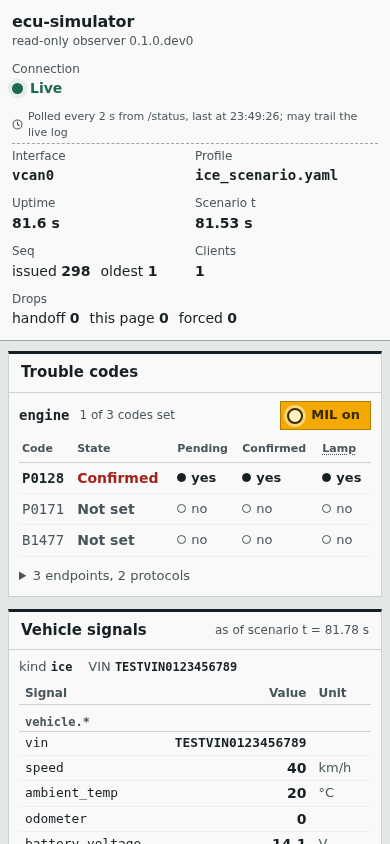
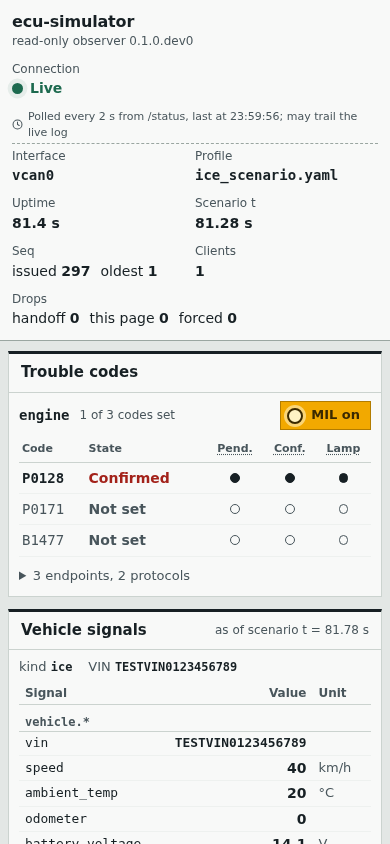
docs(validation): final M3a live demo recapture at 0355164
Every screenshot is from one namespace run on the page with the trouble-codes fix:
the Lamp column is fully visible at 1440 in c2, e and h2, and at 390 and 2000 px.
The record lists the clipping as found at 8d953d3 and fixed in 0355164, and gives
the suite result at 0355164.

diff --git a/docs/validation/gui-m3a-live-demo.md b/docs/validation/gui-m3a-live-demo.md
@@ -8,8 +8,8 @@ single run at a human request rate, and are not evidence about latency.
 
 **The V1.0 and Phase 8b gates are untouched.** No simulator, protocol, profile, API
 endpoint or server code changed in this task. The page fixes are in the static files under
-`src/ecu_simulator/api/static/` (`app.css`, `app.js`, `index.html`): `4b92c9a` (see
-"Findings") and Task 20's `8d953d3`. The supported-PID summaries come from Task 19's
+`src/ecu_simulator/api/static/` (`app.css`, `app.js`, `index.html`): `4b92c9a` and
+`0355164` (see "Findings"), and Task 20's `8d953d3`. The supported-PID summaries come from Task 19's
 `5e9361b` and `cfd8c24` in `observe/`. These screenshots were retaken against all of
 them. Apart from those, the changes are the demo scripts and this record.
 
@@ -17,8 +17,8 @@ them. Apart from those, the changes are the demo scripts and this record.
 
 | Item | Value |
 |---|---|
-| Branch, commit | `gui` at `8d953d38eeff4bc2f61e1a175a74e9d065a386ed` (Task 20: desktop widths, polled label). The capture script's update was committed on top; it adds capture steps and the namespace guard only |
-| Date | 2026-09-28, 23:48:04 UTC (capture start) |
+| Branch, commit | `gui` at `0355164eb6d19a90b2aa1f78bfd463abcb398bb2` (the trouble-codes table fits the sidebar at every width). The capture script is unchanged from `efc1969` |
+| Date | 2026-09-28, 23:58:35 UTC (capture start). The run crossed midnight UTC, so later shots read 00:00 times |
 | Kernel | Linux 6.8.0-138-generic |
 | CPU governor | `powersave` on all 12 CPUs (not pinned; this is not a timing run) |
 | Python | 3.12.12 (worktree `.venv`) |
@@ -28,15 +28,14 @@ them. Apart from those, the changes are the demo scripts and this record.
 The one command:
 
 ```
-scripts/run_gui_demo.sh <scratchpad>/run6
+scripts/run_gui_demo.sh <scratchpad>/run7
 ```
 
 The screenshots in [gui-m3a-live-demo/](gui-m3a-live-demo/) are all from that one run,
 copied unchanged, with its `capture.log` (the step log) and `traffic.log` (every request
-and answer the generator saw). The same command had been run five times before, to develop
+and answer the generator saw). The same command had been run six times before, to develop
 the capture script and against earlier pages. Those runs are not the record, and none of
-their screenshots is kept. Run 5, at the same commit, lacked the dedicated supported-PID
-shot (b3), so the whole set was retaken.
+their screenshots is kept.
 
 Inside the namespace, `scripts/gui_demo_capture.py`:
 
@@ -92,26 +91,29 @@ All shots are at 1440×900 unless the name says otherwise. From the first live s
 the status bar shows the polled label: "Polled every 2 s from /status, last at HH:MM:SS;
 may trail the live log".
 
+In the trouble-codes table the flag columns are now marks under short headers ("Pend.",
+"Conf.", "Lamp"): a filled dot is set, a ring is not.
+
 | File | What it shows |
 |---|---|
 | [a-loading.png](gui-m3a-live-demo/a-loading.png) | **Loading.** "Connecting"; "Loading trouble codes", "Loading vehicle signals", "Loading the exchange history". The first `/api/v1/` request was held in DevTools to capture this; otherwise it lasts well under a second |
-| [h1-empty-fresh-start.png](gui-m3a-live-demo/h1-empty-fresh-start.png) | **Empty: a fresh start before any traffic.** Live, t = 1.11 s, seq issued 0, the polled label. "No exchanges yet. The simulator has not handled a diagnostic request since it started." The scenario is already moving `coolant_temp` and `engine_load` |
+| [h1-empty-fresh-start.png](gui-m3a-live-demo/h1-empty-fresh-start.png) | **Empty: a fresh start before any traffic.** Live, t = 1.10 s, seq issued 0, the polled label. "No exchanges yet. The simulator has not handled a diagnostic request since it started." The scenario is already moving `coolant_temp` and `engine_load` |
 | [b1-live.png](gui-m3a-live-demo/b1-live.png) | **Live, t ≈ 23 s.** 80 exchanges: speed 30, rpm 1600, coolant 48.98 °C, load 33.35 %, throttle 41 %. It includes row 73, "OBD 01 00 — supported PIDs 01–20", and the 0x22 NRC |
-| [b2-live-7s-later.png](gui-m3a-live-demo/b2-live-7s-later.png) | **Live, t ≈ 29–31 s, about 7 s later.** 106 exchanges: speed 55, rpm 1900, coolant 57.4 °C, load 60 %. The log follows to the newest row, 106 |
-| [b3-live-supported-pid-ranges.png](gui-m3a-live-demo/b3-live-supported-pid-ranges.png) | **The new supported-PID summaries (Task 19).** Row 107 is "OBD 01 20 — supported PIDs 21–40" (`41 20 00 02 00 01`); row 109 is "OBD 01 00 — supported PIDs 01–20" (`41 00 1e 3f 80 13`). The polled label reads "Polled every 2 s from /status, last at 23:48:36; may trail the live log". The status Seq "issued 107" trails the log's "last seq 112", as that label says it may |
+| [b2-live-7s-later.png](gui-m3a-live-demo/b2-live-7s-later.png) | **Live, t ≈ 29–31 s, about 7 s later.** 106 exchanges: speed 55, rpm 1900, coolant 56.88 °C, load 59.82 %. The log follows to the newest row, 106 |
+| [b3-live-supported-pid-ranges.png](gui-m3a-live-demo/b3-live-supported-pid-ranges.png) | **The supported-PID summaries (Task 19).** Row 107 is "OBD 01 20 — supported PIDs 21–40" (`41 20 00 02 00 01`); row 109 is "OBD 01 00 — supported PIDs 01–20" (`41 00 1e 3f 80 13`). The polled label reads "Polled every 2 s from /status, last at 23:59:06; may trail the live log". The status Seq "issued 107" trails the log's "last seq 112", as that label says it may |
 | [d1-filter-service-0x19.png](gui-m3a-live-demo/d1-filter-service-0x19.png) | **The service filter 0x19.** "12 of 116 shown". UDS 19 rows from 7E0 and 7E1, with "N exchanges hidden by filters (not a gap)" between them |
 | [d2-paused-held-rows.png](gui-m3a-live-demo/d2-paused-held-rows.png) | **Paused, after the filter was reset.** "View paused. 20 new exchanges are held"; the header reads "116 exchanges, last seq 136"; the button reads "Resume view" |
-| [d3-resumed-log-following.png](gui-m3a-live-demo/d3-resumed-log-following.png) | **3 s after Resume: the log follows.** "147 exchanges, last seq 147", and row 147 is the last visible row, with no scrolling |
+| [d3-resumed-log-following.png](gui-m3a-live-demo/d3-resumed-log-following.png) | **3 s after Resume: the log follows.** "147 exchanges, last seq 147", and row 147 is the last visible row, with no scrolling. P0128 has just turned "Pending" |
 | [d4-scrolled-up-new-rows-below.png](gui-m3a-live-demo/d4-scrolled-up-new-rows-below.png) | **After a real wheel scroll up (deltaY −700).** The log stays at rows 126–135 while exchanges arrive (159). The control reads "11 new rows below, jump to newest" |
 | [d5-jumped-to-newest.png](gui-m3a-live-demo/d5-jumped-to-newest.png) | **After a real click on that control.** The control is gone, and the log shows the newest row, 166 |
-| [c1-dtc-pending.png](gui-m3a-live-demo/c1-dtc-pending.png) | **DTC pending, t ≈ 46 s.** P0128 "Pending", "1 of 3 codes set", MIL off. UDS 19 02 FF on 7E1 answers `59 02 8c 01 28 01` (P0128 in the record). The log follows, at row 167 |
-| [c2-dtc-confirmed-mil.png](gui-m3a-live-demo/c2-dtc-confirmed-mil.png) | **DTC confirmed with the MIL, t ≈ 80 s.** P0128 "Confirmed", pending and confirmed yes; "MIL on"; speed 40, rpm 1400, coolant 92 °C. **The Lamp column is clipped at the panel's right edge** (see Findings) |
-| [g1-narrow-390.png](gui-m3a-live-demo/g1-narrow-390.png) | **390 px, viewport.** The status grid with the polled label wrapped under Connection; the trouble codes with MIL on, all columns visible, including Lamp "yes" |
+| [c1-dtc-pending.png](gui-m3a-live-demo/c1-dtc-pending.png) | **DTC pending, t ≈ 45 s.** P0128 "Pending": a filled Pend. mark, rings under Conf. and Lamp; "1 of 3 codes set"; MIL off. UDS 19 02 FF on 7E1 answers `59 02 8c 01 28 01` (P0128 in the record). The log follows, at row 166 |
+| [c2-dtc-confirmed-mil.png](gui-m3a-live-demo/c2-dtc-confirmed-mil.png) | **DTC confirmed with the MIL, t ≈ 79 s.** P0128 "Confirmed", with filled marks under Pend., Conf. and **Lamp, all fully visible inside the panel**; "MIL on"; speed 80, rpm 2100, coolant 92 °C |
+| [g1-narrow-390.png](gui-m3a-live-demo/g1-narrow-390.png) | **390 px, viewport.** The status grid with the polled label wrapped under Connection; the trouble codes with MIL on and every column visible |
 | [g2-narrow-390-full-page.png](gui-m3a-live-demo/g2-narrow-390-full-page.png) | **390 px, full page.** Panels stacked; every vehicle signal; log rows as blocks, 295–300, ending at the newest |
-| [w-desktop-2000x1100.png](gui-m3a-live-demo/w-desktop-2000x1100.png) | **2000×1100, the owner's width.** A wider side column, with the DTC table unclipped (Lamp "yes" for P0128); the log's summaries fit on one line, including row 305, "OBD 01 20 — supported PIDs 21–40"; the polled label |
-| [e-disconnected-stale.png](gui-m3a-live-demo/e-disconnected-stale.png) | **Disconnected, about 4 s after SIGTERM.** "Disconnected, retry in 4 s"; the polled label keeps its last time (23:49:28). The banner reads "Last live 23:49:29 UTC (4 s ago) … the simulator is shutting down (1001) …", with "Retry now". Each panel shows "Stale, as of 23:49:29 UTC", and the status readouts are struck through. All three DTC rows are visible; the Lamp column is clipped at the right edge, as in c2. The log keeps 311 exchanges, including 01 20 and 01 00 (rows 305 and 307) |
-| [f-reconnected-after-restart.png](gui-m3a-live-demo/f-reconnected-after-restart.png) | **Reconnected after a restart.** Live at t = 4.63 s, MIL off, P0128 not set. A real wheel scroll up of about 856 px shows the marker: "Simulator restarted. A new run started at 23:49:34 UTC. Rows above are from the previous run; seq starts again at 1." Old rows 308–311 are above it and new rows 1–5 below. The control reads "2 new rows below, jump to newest", counting the rows that arrived after the scroll |
-| [h2-no-scenario.png](gui-m3a-live-demo/h2-no-scenario.png) | **No scenario.** `ice_default.yaml`, on a fresh page load with no traffic. Scenario t reads "no scenario"; the vehicle signals read "no scenario: values as configured"; "No exchanges yet". The profile's confirmed B1477 and P0001 are shown with MIL off. The Lamp column is clipped, as in c2 |
+| [w-desktop-2000x1100.png](gui-m3a-live-demo/w-desktop-2000x1100.png) | **2000×1100, the owner's width.** A wider side column with the whole DTC table; the log's summaries fit on one line, including row 305, "OBD 01 20 — supported PIDs 21–40"; the polled label |
+| [e-disconnected-stale.png](gui-m3a-live-demo/e-disconnected-stale.png) | **Disconnected, about 4 s after SIGTERM.** "Disconnected, retry in 4 s"; the polled label keeps its last time (23:59:58). The banner reads "Last live 00:00:00 UTC (4 s ago) … the simulator is shutting down (1001) …", with "Retry now". Each panel shows "Stale, as of 00:00:00 UTC", and the status readouts are struck through. **All three DTC rows and the Lamp column are fully visible.** The log keeps 311 exchanges, including 01 20 and 01 00 (rows 305 and 307) |
+| [f-reconnected-after-restart.png](gui-m3a-live-demo/f-reconnected-after-restart.png) | **Reconnected after a restart.** Live at t = 4.64 s, MIL off, P0128 not set. A real wheel scroll up of about 962 px shows the marker: "Simulator restarted. A new run started at 00:00:04 UTC. Rows above are from the previous run; seq starts again at 1." Old rows 308–311 are above it and new rows 1–5 below. The control reads "2 new rows below, jump to newest", counting the rows that arrived after the scroll |
+| [h2-no-scenario.png](gui-m3a-live-demo/h2-no-scenario.png) | **No scenario.** `ice_default.yaml`, on a fresh page load with no traffic. Scenario t reads "no scenario"; the vehicle signals read "no scenario: values as configured"; "No exchanges yet". The profile's confirmed B1477 and P0001 are shown with filled Pend. and Conf. marks, a ring under Lamp (fully visible), and MIL off |
 
 On the final page load, `performance.getEntriesByType('resource')` listed no resource from
 any origin other than `http://127.0.0.1:8765`. The whole run produced **no page exception
@@ -138,20 +140,23 @@ The API's `summary` strings for OBD 01 00 and 01 20 read "unknown parameter" in 
 captures. Task 19 (`5e9361b`, `cfd8c24`) changed them to "supported PIDs 01–20" and
 "supported PIDs 21–40" (b3).
 
-**Open, found in this recapture at `8d953d3`:** at 1440×900 the trouble-codes table is
-wider than its panel whenever a code reads "Confirmed". The Lamp header and its yes/no
-column are cut off at the panel's right edge (c2, e, h2). With no confirmed code (b1, c1,
-f) it fits. At 2000×1100 (w) and at 390 px (g1, g2) it is not clipped. The page was not
-changed here; this is for the owner or the next page task.
+3. **At 1440×900 the trouble-codes table clipped its Lamp column** whenever a code read
+   "Confirmed": the table was wider than its panel. Found in the recapture at `8d953d3`
+   (Task 20). **Fixed in `0355164`:** the flag columns show marks under short headers,
+   and a safety net scrolls the table sideways instead of clipping it. The retake shows
+   the Lamp column fully visible in c2, e and h2, and at 390 px and 2000 px.
 
-## Test suite (at `4b92c9a`, Fix round 1; not rerun for this recapture)
+## Test suite (at `0355164`)
 
 These are recorded for completeness. The demo adds no tests.
 
-- **The namespace suite without vcan0**, the baseline form:
+- **The namespace suite without vcan0, at `0355164`**, the baseline form:
   `unshare -r -n bash -c 'ip link set lo up && .venv/bin/python -m pytest -p no:cacheprovider -q -rsx'`
-  gave **1247 passed, 69 skipped, 2 xfailed**. The 69 skips are the vcan integration
+  gave **1248 passed, 69 skipped, 2 xfailed**, as reported by the page implementer for
+  that commit. It was not rerun for this recapture. The 69 skips are the vcan integration
   tests, which need a `vcan0`.
+- Earlier, at `4b92c9a`, the same command gave 1247 passed, 69 skipped, 2 xfailed (run for
+  this task in Fix round 1).
 - **A separate note, not the baseline:** the same suite run in a namespace that also had a
   `vcan0`, at `aafdac2` before the page fix, gave 1315 passed, 1 skipped, 2 xfailed. The
   vcan0 lets 68 of the 69 integration tests run; the total is the same.
